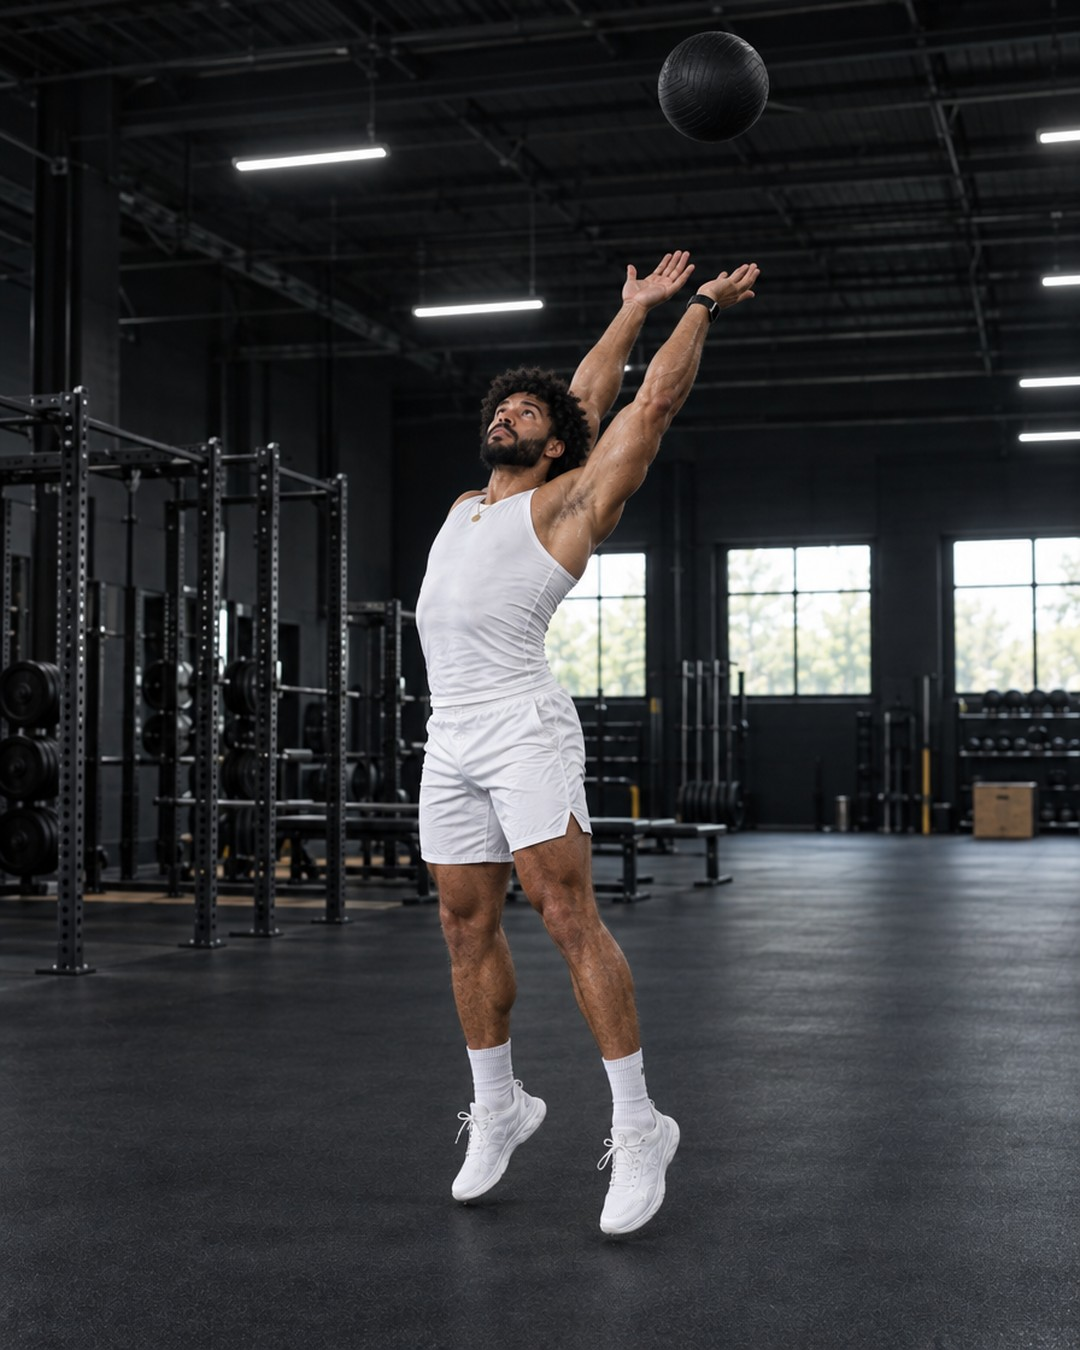
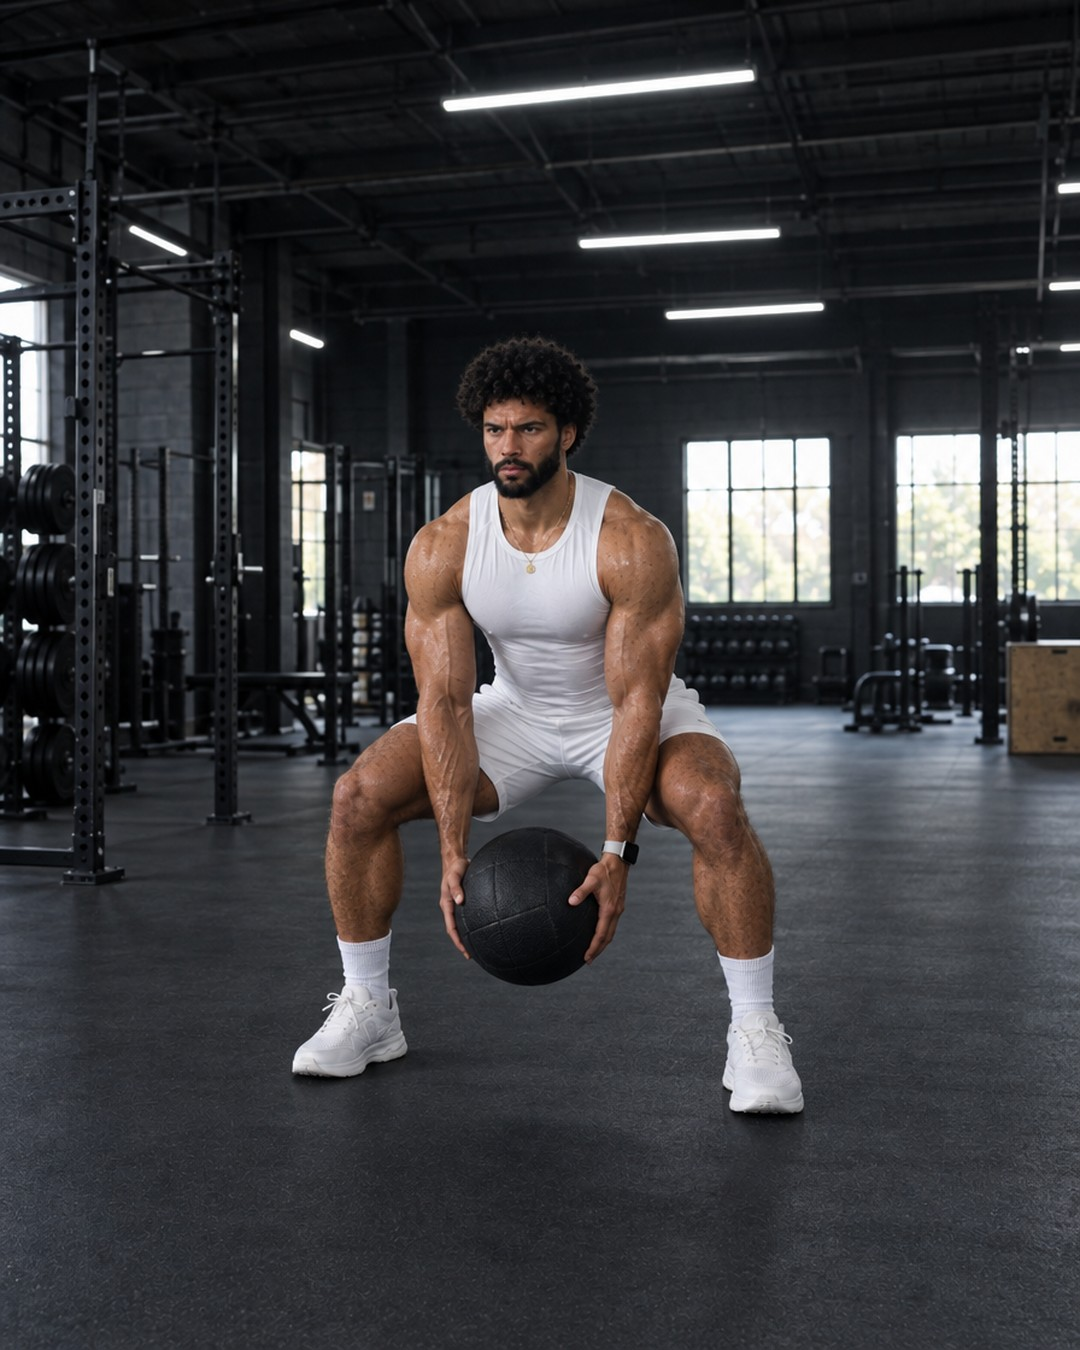
V3 cart heroes: Power hero h305 is now the med-ball throw loaded position
Claude-Session: https://claude.ai/code/session_01Y7y8gEfezQiPQ2kCqATRmJ

diff --git a/frontend/utils/cartHero.ts b/frontend/utils/cartHero.ts
@@ -188,7 +188,7 @@ export const V3_CART_HERO_ALTS: readonly V3HeroPhoto[] = [
   { uri: 'https://res.cloudinary.com/dfsygar5c/image/upload/v1790998367/mood/v3/cart_heroes/alts/strength_lower_hinge__h301_mateo_barbell_rdl.jpg', athlete: 'mateo', archetypes: ['strength_lower_hinge', 'strength_glutes_legs'] }, // h301_mateo_barbell_rdl
   { uri: 'https://res.cloudinary.com/dfsygar5c/image/upload/v1790999938/mood/v3/cart_heroes/alts/strength_lower_hinge__h302_imani_kb_swing.jpg', athlete: 'imani', archetypes: ['strength_lower_hinge', 'strength_full_body'] }, // h302_imani_kb_swing
   { uri: 'https://res.cloudinary.com/dfsygar5c/image/upload/v1790999117/mood/v3/cart_heroes/alts/strength_lower_hinge__h304_julian_kb_sumo_deadlift.jpg', athlete: 'julian', archetypes: ['strength_lower_hinge', 'strength_glutes_legs'] }, // h304_julian_kb_sumo_deadlift
-  { uri: 'https://res.cloudinary.com/dfsygar5c/image/upload/v1791000863/mood/v3/cart_heroes/alts/athletic_power__h305_julian_backward_mb_throw.jpg', athlete: 'julian', archetypes: ['athletic_power', 'athletic_full_body'] }, // h305_julian_backward_mb_throw
+  { uri: 'https://res.cloudinary.com/dfsygar5c/image/upload/v1791000994/mood/v3/cart_heroes/alts/athletic_power__h305_julian_backward_mb_throw.jpg', athlete: 'julian', archetypes: ['athletic_power', 'athletic_full_body'] }, // h305_julian_backward_mb_throw
   { uri: 'https://res.cloudinary.com/dfsygar5c/image/upload/v1790965531/mood/v3/cart_heroes/alts/sweat_circuit__s01_mei_jump_rope.jpg', athlete: 'mei', archetypes: ['sweat_circuit', 'sweat_engine', 'sweat_hybrid'] }, // s01_mei_jump_rope
   { uri: 'https://res.cloudinary.com/dfsygar5c/image/upload/v1790965528/mood/v3/cart_heroes/alts/athletic_speed_agility__s02_amara_a_skip.jpg', athlete: 'amara', archetypes: ['athletic_speed_agility', 'athletic_full_body'] }, // s02_amara_a_skip
   { uri: 'https://res.cloudinary.com/dfsygar5c/image/upload/v1790965528/mood/v3/cart_heroes/alts/athletic_speed_agility__s04_kai_sprint_start.jpg', athlete: 'kai', archetypes: ['athletic_speed_agility', 'athletic_power'] }, // s04_kai_sprint_start
